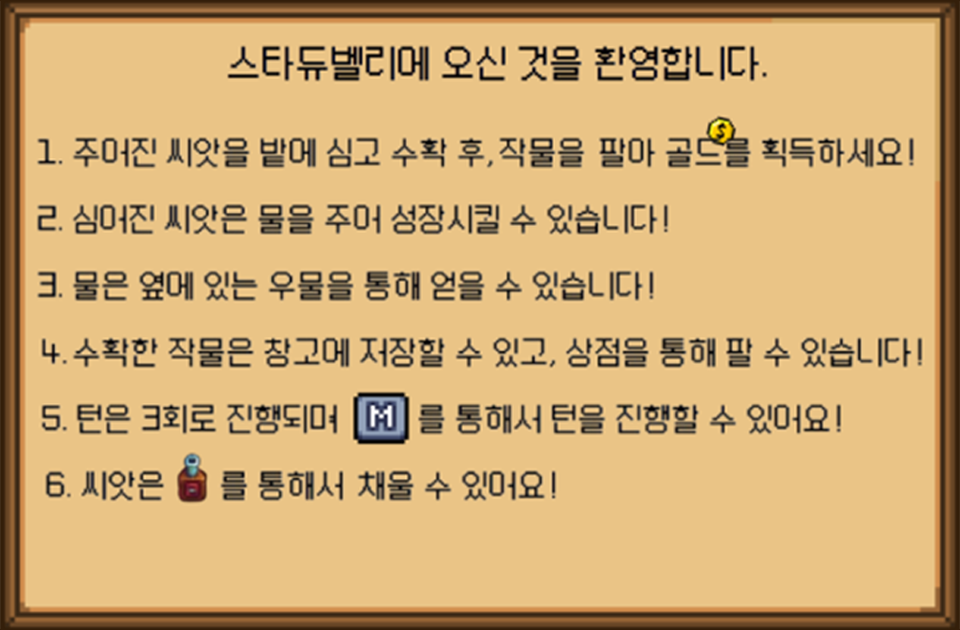
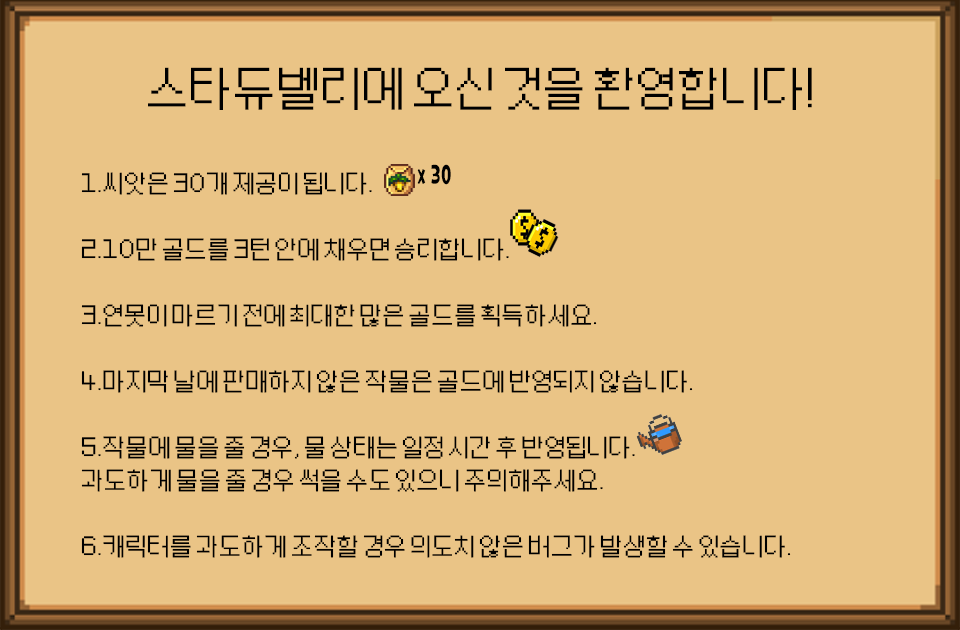
f4도움창 이미지 추가

Changed region(s): [[0.0, 0.0, 1.0, 0.8143], [0.0, 0.9349, 1.0, 0.9952], [0.0625, 0.8444, 0.8125, 0.9048]]

diff --git a/src/stardewValley/A_PTH/HelpInfo.java b/src/stardewValley/A_PTH/HelpInfo.java
@@ -17,6 +17,7 @@ public class HelpInfo extends JLabel {
 	private ImageIcon helpInfo1;
 	private ImageIcon keyCommand;
 	private ImageIcon keepInfo;
+	private ImageIcon helpCommand; //
 
 	private int infoX;
 	private int infoY;
@@ -38,6 +39,7 @@ public class HelpInfo extends JLabel {
 		keyCommand = new ImageIcon("img/Status/KeyCommand.png");
 		keepInfo = new ImageIcon("img/Status/tempD.png");
 
+		helpCommand = new ImageIcon("img/Status/HelpCommand.png");//
 	}
 
 	public void setInitLayout() {
@@ -63,6 +65,16 @@ public class HelpInfo extends JLabel {
 	public ImageIcon getKeepInfo() {
 		return keepInfo;
 	}
+
+	public ImageIcon getHelpCommand() {
+		return helpCommand;
+	}
+
+	public void setHelpCommand(ImageIcon helpCommand) {
+		this.helpCommand = helpCommand;
+	}
+	
+	
 //	public void setVisibleTrue() {
 //		setIcon(questionMark);
 //		setSize(50, 50);

diff --git a/src/stardewValley/A_PTH/StardewValleyFrame.java b/src/stardewValley/A_PTH/StardewValleyFrame.java
@@ -318,6 +318,10 @@ public class StardewValleyFrame extends JFrame {
 
 					setVisibleFalse();
 					break;
+				case KeyEvent.VK_F4:
+					info.setIcon(info.getHelpCommand());
+					setVisibleFalse();
+					break;
 				default:
 					break;
 				}
